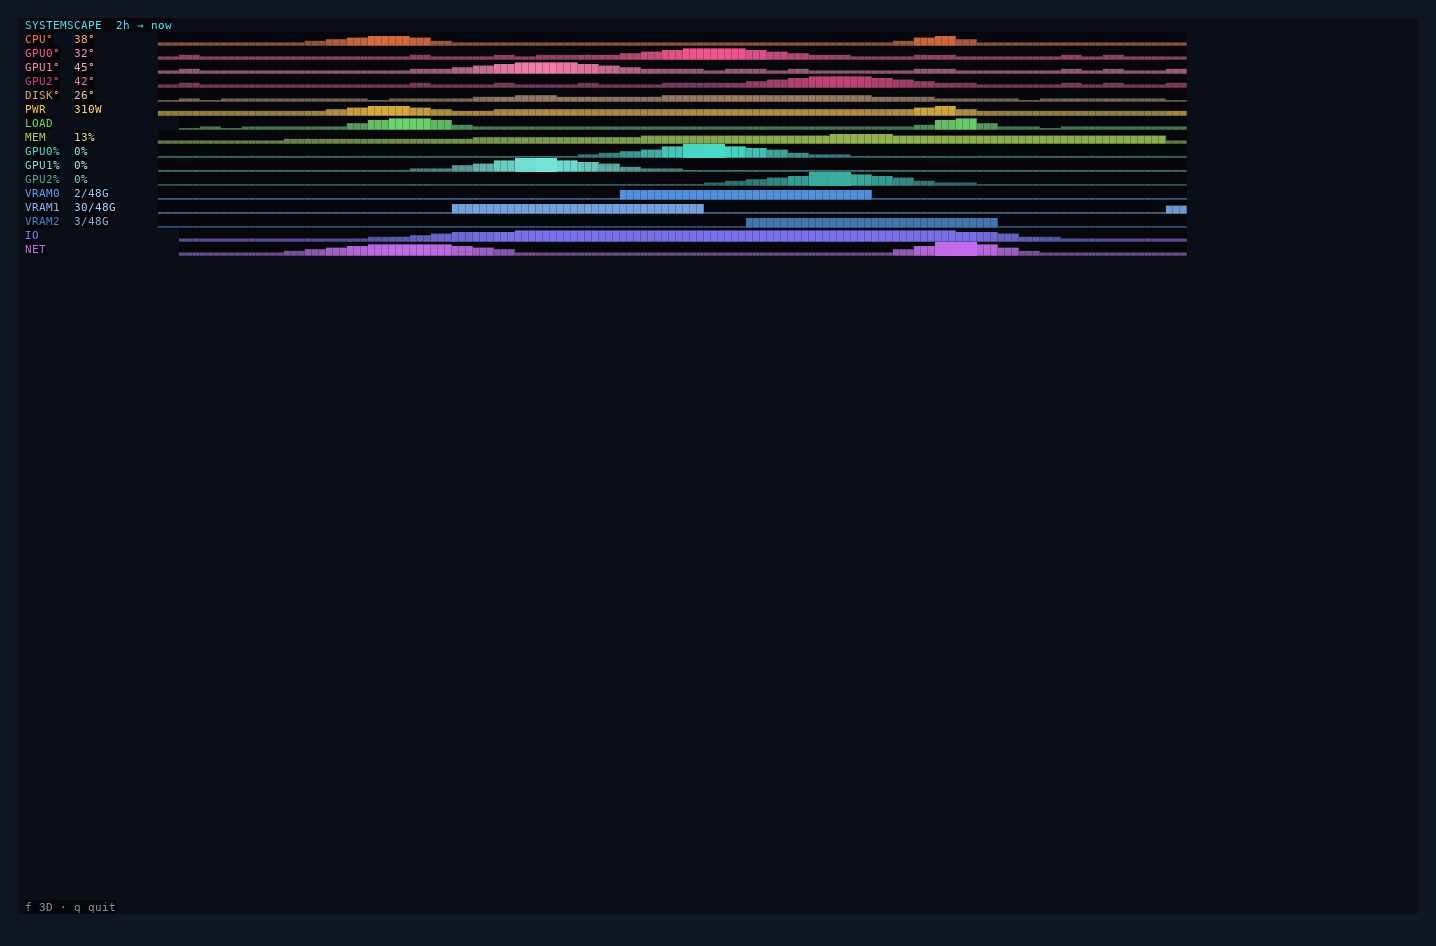
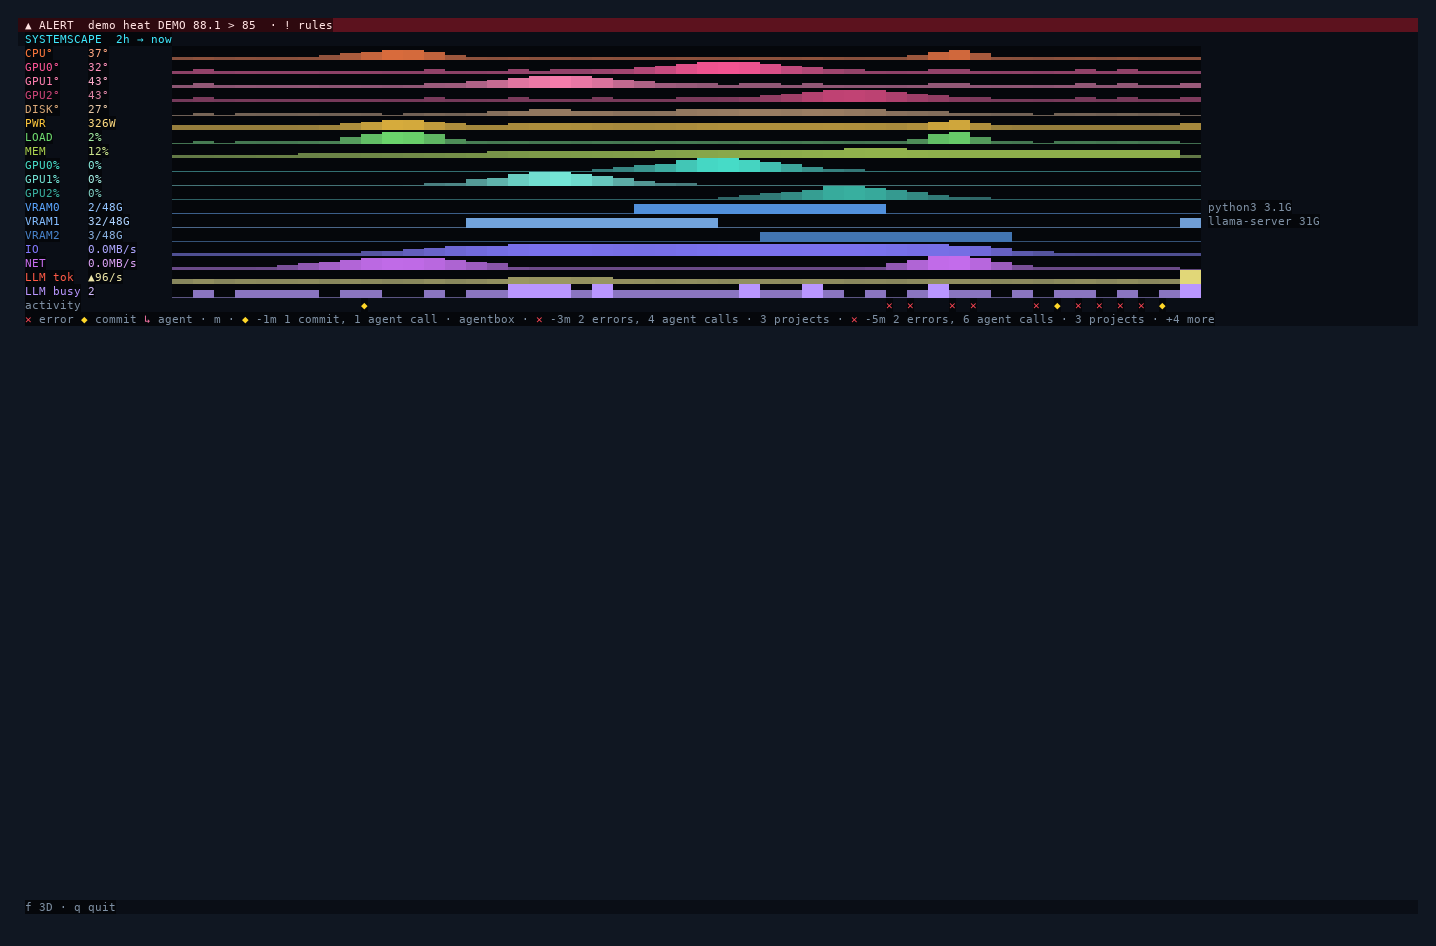
Show 0.5.0 in the README: new captures, a replay GIF and feature guides
The capture script now takes the city with links, heat, a paused replay,
the alert rule list and both telemetry views, and draws a replay GIF from
--activity --cast. Sparkline blocks are drawn as partial cells.

Changed region(s): [[0.0, 0.0, 1.0, 0.3372], [0.0, 0.2452, 0.0306, 0.3066], [0.0306, 0.3066, 0.0613, 0.3372]]

diff --git a/scripts/capture-screenshots.py b/scripts/capture-screenshots.py
@@ -1,10 +1,11 @@
 #!/usr/bin/env python3
-"""Capture real demo panes; rasterise their ANSI cells for the README.
+"""Capture real demo panes and a replay; rasterise their ANSI cells for the README.
 
 Requires tmux, Pillow and a monospace TrueType font. No real history is read.
 Usage: uv run --with pillow scripts/capture-screenshots.py --font /path/font.ttf
 """
 import argparse
+import json
 from pathlib import Path
 import re
 import subprocess
@@ -25,13 +26,18 @@ def tmux(*args):
     return subprocess.check_output(['tmux', '-L', socket, *args], text=True)
 
 
-def raster(raw, destination):
+DEFAULT_FG, DEFAULT_BG = (204, 219, 235), (16, 23, 34)
+# Lower blocks, as eighths of a cell filled from the bottom (sparklines).
+EIGHTHS = {c: i + 1 for i, c in enumerate('▁▂▃▄▅▆▇█')}
+
+
+def draw_frame(lines, cols, rows):
+    """Rasterise rows of ANSI truecolour cells to an image."""
     cell_w, cell_h, margin = 7, 14, 18
-    image = Image.new('RGB', (200 * cell_w + 2 * margin, 65 * cell_h + 2 * margin), '#101722')
+    image = Image.new('RGB', (cols * cell_w + 2 * margin, rows * cell_h + 2 * margin), '#101722')
     draw = ImageDraw.Draw(image)
-    colour = (204, 219, 235)
-    background = (16, 23, 34)
-    for y, line in enumerate(raw.splitlines()[:65]):
+    for y, line in enumerate(lines[:rows]):
+        colour, background = DEFAULT_FG, DEFAULT_BG
         x = 0
         for chunk in re.split(r'(\x1b\[[0-9;]*m)', line):
             if chunk.startswith('\x1b['):
@@ -45,21 +51,67 @@ def raster(raw, destination):
                         else: background = rgb
                         k += 5
                         continue
-                    if code in (0, 39): colour = (204, 219, 235)
-                    if code in (0, 49): background = (16, 23, 34)
+                    if code in (0, 39): colour = DEFAULT_FG
+                    if code in (0, 49): background = DEFAULT_BG
                     if code == 40: background = (0, 0, 0)
                     k += 1
                 continue
             for char in chunk:
-                draw.rectangle((margin+x*cell_w, margin+y*cell_h, margin+(x+1)*cell_w-1, margin+(y+1)*cell_h-1), fill=background)
+                if x >= cols:
+                    break
+                left, top = margin + x * cell_w, margin + y * cell_h
+                right, bottom = left + cell_w - 1, top + cell_h - 1
+                draw.rectangle((left, top, right, bottom), fill=background)
                 if char == '▀':
-                    draw.rectangle((margin+x*cell_w, margin+y*cell_h, margin+(x+1)*cell_w-1, margin+y*cell_h+cell_h//2-1), fill=colour)
-                elif char == '█':
-                    draw.rectangle((margin+x*cell_w, margin+y*cell_h, margin+(x+1)*cell_w-1, margin+(y+1)*cell_h-1), fill=colour)
+                    draw.rectangle((left, top, right, top + cell_h // 2 - 1), fill=colour)
+                elif char in EIGHTHS:
+                    draw.rectangle((left, bottom + 1 - cell_h * EIGHTHS[char] // 8, right, bottom), fill=colour)
                 elif char != ' ':
-                    draw.text((margin+x*cell_w, margin+y*cell_h), char, font=font, fill=colour)
+                    draw.text((left, top), char, font=font, fill=colour)
                 x += 1
-    image.save(destination)
+    return image
+
+
+def raster(raw, destination):
+    draw_frame(raw.splitlines(), 200, 65).save(destination)
+
+
+def replay_gif(destination, cols=120, rows=38, seconds=12, step=2):
+    """Turn `--activity --cast --demo` into a looping GIF.
+
+    A cast frame holds only the rows that changed, each addressed by a cursor
+    move, so the rows are kept between frames.
+    """
+    cast = subprocess.check_output(
+        [binary, '--activity', '--cast', '--demo', '--size', f'{cols}x{rows}', '--length', str(seconds)],
+        text=True).splitlines()
+    screen, frames, times = [''] * rows, [], []
+    for line in cast[1:]:
+        at, _, data = json.loads(line)
+        parts = re.split(r'\x1b\[(\d+);1H', data)
+        for row, text in zip(parts[1::2], parts[2::2]):
+            if 1 <= int(row) <= rows:
+                screen[int(row) - 1] = re.sub(r'\x1b\[\?[0-9]+[hl]|\x1b\[2J', '', text)
+        frames.append(list(screen))
+        times.append(at)
+    picked = list(range(0, len(frames), step))
+    if picked[-1] != len(frames) - 1:
+        picked.append(len(frames) - 1)
+    images = [draw_frame(frames[i], cols, rows).quantize(colors=128, dither=Image.Dither.NONE) for i in picked]
+    # Hold the finished day before the loop restarts.
+    durations = [int(1000 * seconds / len(frames) * step)] * (len(images) - 1) + [2500]
+    images[0].save(destination, save_all=True, append_images=images[1:], duration=durations, loop=0, optimize=True)
+
+
+def key(*keys, wait=0.5):
+    for k in keys:
+        tmux('send-keys', '-t', 'capture:0', k)
+        time.sleep(0.12)
+    time.sleep(wait)
+
+
+def shot(name):
+    raster(tmux('capture-pane', '-p', '-e', '-N', '-t', 'capture:0'), root / 'docs' / f'{name}.png')
 
 
 try:
@@ -71,23 +123,25 @@ try:
                               stdin=subprocess.PIPE, stdout=subprocess.DEVNULL,
                               stderr=subprocess.DEVNULL)
     tmux('resize-window', '-t', 'capture:0', '-x', '200', '-y', '65')
-    time.sleep(1.0)
-    tmux('send-keys', '-t', 'capture:0', 'Space')
-    time.sleep(0.4)
-    for name, key in [('activity-3d', None), ('activity-flat', 'Enter')]:
-        if key:
-            tmux('send-keys', '-t', 'capture:0', key)
-            time.sleep(0.3)
-        raw = tmux('capture-pane', '-p', '-e', '-N', '-t', 'capture:0')
-        raster(raw, root / 'docs' / f'{name}.png')
+    time.sleep(1.5)
+    key('Space')            # hold the tour so every capture is of a settled frame
+    shot('activity-3d')     # arcs, shared-file roads, ghost skyline, alert banner
+    key('e')
+    shot('activity-heat')   # floors tinted by recorded machine load
+    key('e', 'Enter')
+    shot('activity-flat')
+    key('f', 'r', wait=15.0)  # replay plays from the start of the day
+    key('Space')            # pause part-way through
+    shot('activity-replay')
+    key('r', '!')
+    shot('alerts')          # the rule list
     tmux('respawn-pane', '-k', '-t', 'capture:0', f'{binary} --demo')
-    time.sleep(0.8)
-    tmux('send-keys', '-t', 'capture:0', 'Space')
-    time.sleep(0.3)
-    raster(tmux('capture-pane', '-p', '-e', '-N', '-t', 'capture:0'), root / 'docs' / 'telemetry.png')
+    time.sleep(7.0)         # long enough for the demo alert rule to fire
+    key('Space')
+    shot('telemetry')       # ridges, activity marks, VRAM processes, anomaly flag
     # Narrow panes, and `f`, give one sparkline per channel.
-    tmux('send-keys', '-t', 'capture:0', 'f')
-    time.sleep(0.3)
-    raster(tmux('capture-pane', '-p', '-e', '-N', '-t', 'capture:0'), root / 'docs' / 'telemetry-flat.png')
+    key('f')
+    shot('telemetry-flat')
+    replay_gif(root / 'docs' / 'replay.gif')
 finally:
     subprocess.run(['tmux', '-L', socket, 'kill-server'], check=False, capture_output=True)

diff --git a/README.md b/README.md
@@ -14,27 +14,50 @@ The repository was previously named `thermal3d`; the binary remains `systemscape
 
 These are captures of the running application in 200×65 tmux panes. Activity
 uses synthetic records; telemetry uses a synthetic history with live NOW readings.
+The red line at the top of some captures is the alert banner raised by the
+demo's built-in rules.
 
 **Agent work in 3D** — a city of recorded work. Each district is a project,
 each tower a session, each floor a recorded action coloured by what it was.
-The selected tower carries a callout; the strip below lists the most recent
-sessions and what each last did.
+The pink arc joins a session to the subagent it started, the red roads join
+sessions that edited the same file, and the grey outlines are the previous
+day's skyline. The selected tower carries a callout; the strip below lists the
+most recent sessions, with `↻` on one that keeps repeating a failing command.
 
-![Activity city: project districts, session towers and a most-recent strip](docs/activity-3d.png)
+![Activity city: districts, session towers, a delegation arc, shared-file roads and yesterday's outline](docs/activity-3d.png)
 
-**System telemetry** — one labelled ridge per channel, GPUs split per card,
-correlates temperatures, power, load, memory, GPU work, disk and network traffic.
+**Replay** — press `r` and the day is rebuilt record by record; `--activity
+--cast` writes the same replay as an asciinema recording.
 
-![System telemetry rendered as labelled 3D ridges, one hue per channel](docs/telemetry.png)
+![A replay of the demo day: towers grow as the cut-off time advances](docs/replay.gif)
 
-**Telemetry sparklines** — press `f`, or use a pane under 80 columns or 20 rows.
+![Replay paused part-way through the day, with the cut-off time in the header](docs/activity-replay.png)
 
-![Telemetry as one coloured sparkline per channel with live values](docs/telemetry-flat.png)
+**Heat** — press `e` to tint each floor by how busy the machine was when the
+record was made, from a history kept with `systemscape --record`.
+
+![The same city with floors tinted from blue to red by recorded machine load](docs/activity-heat.png)
 
 **Activity detail** — press Enter or `f`, or shrink the pane below 80 columns
 or 20 rows: every session of the day, then every record of the selected one.
 
 ![Activity detail: sessions table and the selected session's records](docs/activity-flat.png)
+
+**System telemetry** — one labelled ridge per channel, GPUs split per card,
+correlates temperatures, power, load, memory, GPU work, disk and network traffic.
+Marks along the front edge are recorded commits, errors and agent calls; the
+VRAM labels name the processes holding the memory, and `▲` flags a value above
+its usual band.
+
+![System telemetry as labelled 3D ridges with activity marks on the time axis](docs/telemetry.png)
+
+**Telemetry sparklines** — press `f`, or use a pane under 80 columns or 20 rows.
+
+![Telemetry as one coloured sparkline per channel, with an activity row beneath](docs/telemetry-flat.png)
+
+**Alerts** — rules from a TOML file raise the banner; `!` lists them.
+
+![The alert rule list over the activity city: two rules firing, one clear](docs/alerts.png)
 
 To reproduce these captures, see [screenshots](docs/SCREENSHOTS.md).
 
@@ -274,6 +297,17 @@ systemscape --mcp                       # read-only MCP server on stdio, for age
 systemscape --metrics 127.0.0.1:9108    # OpenMetrics endpoint, until interrupted
 ```
 
+A day's summary looks like this (`--activity --summary --demo`, shortened):
+
+```text
+Activity on 2026-11-18 (UTC): 4 projects · 8 sessions · 275 records · 63 edits · 20 errors · 3 commits
+STUCK      codex 77e385bc-demo in workspace/VisionFlow: "Bash cargo test --locked" failed 3 times running, last at 18:02
+CONTENDED  /workspace/agentbox/src/telemetry.rs edited by 3 sessions: archive:tester handoff-17, claude 9c2d4410-demo, claude a3f09e11-demo
+■ /workspace/VisionFlow  17:34–18:07  2 sessions · 63 tools · 17 edits · 8 errors · 0 commits
+  codex          01a1dc07-demo          17:34–18:07    7p   45t  11e   3✗  0c
+  codex          77e385bc-demo          17:47–18:02    3p   18t   6e   5✗  0c  STUCK
+```
+
 `--status` prints one short line and returns in about a tenth of a second,
 from a single bounded poll, so its counts can be low just after start-up. For
 a tmux status bar:
@@ -348,6 +382,20 @@ the frame rate within normal variation: 60 seconds with the probe ran at
 
 A host can name a local `command` instead of `ssh`, for any wrapper that
 prints probe lines, such as `docker exec -i NAME systemscape --probe`.
+
+## Feature guides
+
+Each newer feature has its own page with flags, keys, limits and what it does
+not claim:
+
+| Guide | Covers |
+|-------|--------|
+| [City links](docs/features/city.md) | delegation arcs, shared-file roads, the ghost skyline |
+| [Replay](docs/features/replay.md) | the `r` scrubber and `--activity --cast` |
+| [Join](docs/features/join.md) | activity marks on the time axis, `--record`, heat and machine-wide energy |
+| [Sensors](docs/features/sensors.md) | VRAM processes, `--containers`, `--llama-metrics`, the anomaly flag |
+| [Alerts](docs/features/alerts.md) | rule file format, notifications, tmux output |
+| [Insight](docs/features/insight.md) | `--status`, `--summary`, stuck sessions, `--mcp`, `--metrics` |
 
 ## Design
 

diff --git a/docs/SCREENSHOTS.md b/docs/SCREENSHOTS.md
@@ -1,7 +1,8 @@
 # Reproducing the README screenshots
 
 The README PNGs are rasterisations of ANSI cells captured from real 200×65 tmux
-panes. The activity tour is held for each complete capture. They are not concept art. Activity uses `--demo`; telemetry uses `--demo`
+panes, and `docs/replay.gif` is the output of `--activity --cast --demo`
+(120×38, 12 seconds) drawn by the same rasteriser. The activity tour is held for each complete capture. They are not concept art. Activity uses `--demo`; telemetry uses `--demo`
 for its history and still polls the local system for its live values.
 
 ```sh
@@ -11,9 +12,17 @@ uv run --with pillow scripts/capture-screenshots.py --font /path/to/DejaVuSansMo
 
 Requirements: tmux, Python with Pillow, and a monospace TrueType font. These are
 documentation tools and are not dependencies of the SystemScape binary. The script
-creates a uniquely named tmux server, captures the activity city and detail view,
-then 3D and sparkline telemetry,
-then removes only its own server. It opens no real agent histories.
+creates a uniquely named tmux server and captures, in order: the activity city
+(`activity-3d`), the city with heat on (`activity-heat`), the detail view
+(`activity-flat`), a replay paused part-way through the day
+(`activity-replay`), the alert rule list (`alerts`), then 3D and sparkline
+telemetry (`telemetry`, `telemetry-flat`). It then removes only its own server
+and writes the replay GIF. It opens no real agent histories, and under `--demo`
+the heat history and alert rules are synthetic too.
+
+The demo's timestamps are relative to the moment of capture, so the replay
+capture shows whatever point of the day the replay has reached after fifteen
+seconds; the others are stable from run to run apart from live sensor values.
 
 For an ANSI frame on a terminal, `systemscape --activity --demo --snapshot` exits
 after rendering. Use `--text` or `--json` for redirected output.
